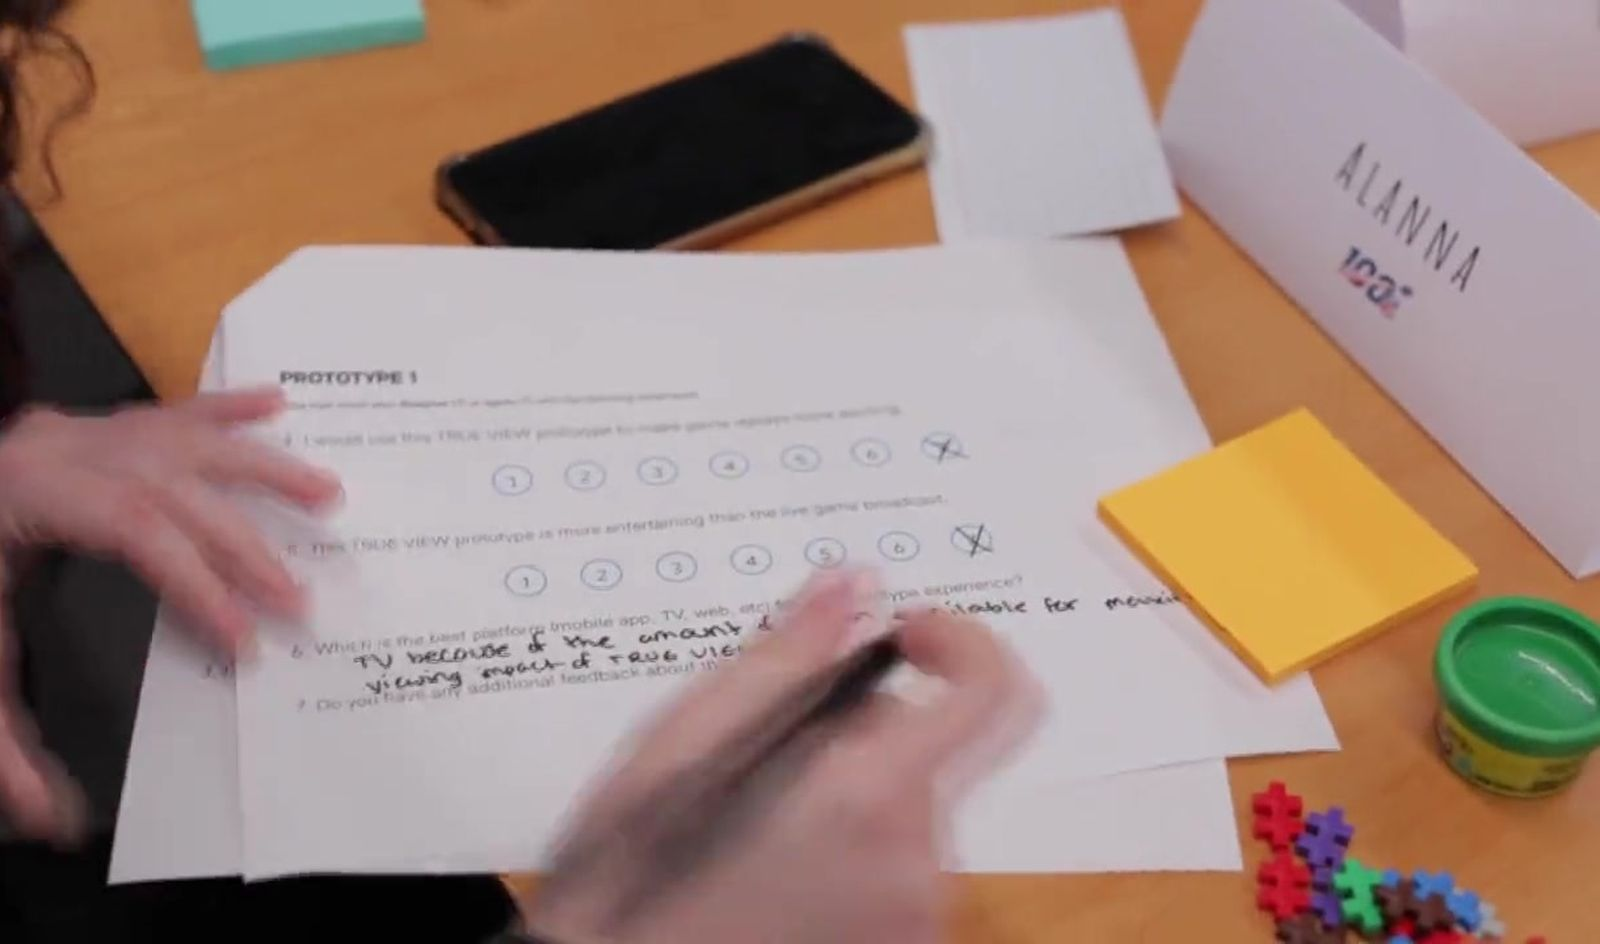
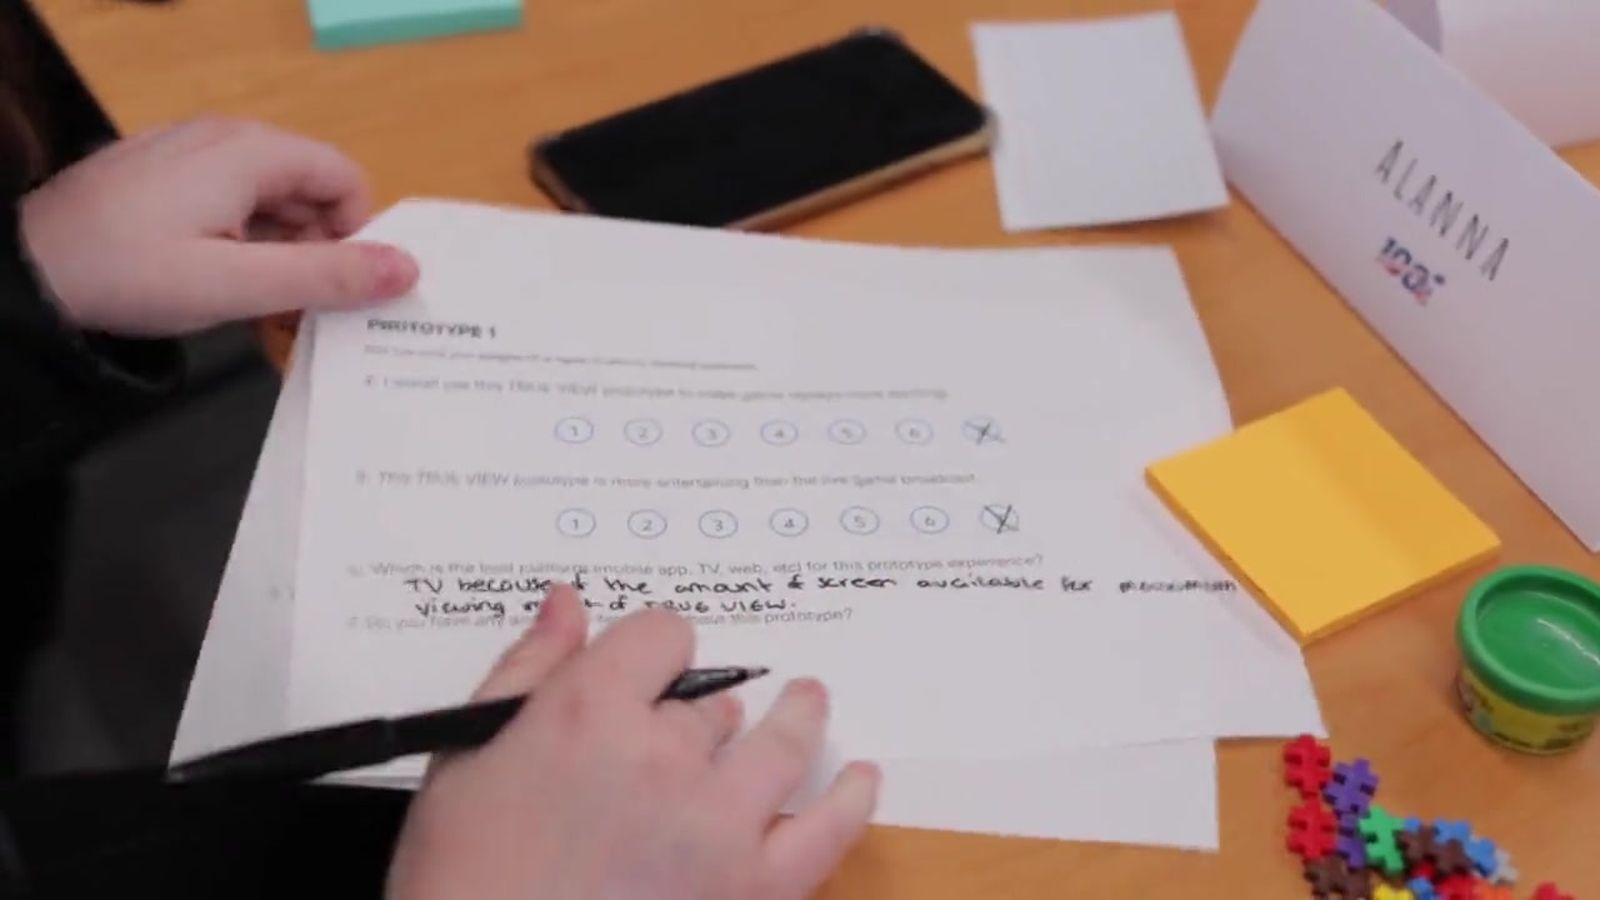
Expand the hero slideshow to 13 user-picked reel moments and drop the persona sketch slide
Adds six new slides (TrueView watchers, synthesis whiteboard, TANAKA sketching,
Sam reviewing with a colleague, storyboard presentation, storyboard table),
upgrades the JAYDEN writing and ALANNA survey slides to full-frame versions,
and shortens per-slide time to 6.8s so the longer rotation keeps moving.

diff --git a/index.html b/index.html
@@ -54,13 +54,18 @@
       <div class="hero-media" aria-hidden="true">
         <div class="hero-slides" data-hero-slides>
           <img class="hero-slide hero-slide--face is-active" src="media/hero/slide-sam-tablet.jpg" alt="" fetchpriority="high" decoding="async" />
+          <img class="hero-slide" src="media/hero/slide-trueview.jpg" alt="" loading="lazy" decoding="async" />
           <img class="hero-slide" src="media/hero/slide-sam-writing.jpg" alt="" loading="lazy" decoding="async" />
+          <img class="hero-slide" src="media/hero/slide-whiteboard.jpg" alt="" loading="lazy" decoding="async" />
           <img class="hero-slide hero-slide--face" src="media/hero/slide-sam-folder.jpg" alt="" loading="lazy" decoding="async" />
-          <img class="hero-slide" src="media/hero/slide-persona.jpg" alt="" loading="lazy" decoding="async" />
-          <img class="hero-slide hero-slide--face" src="media/hero/slide-sam-couch.jpg" alt="" loading="lazy" decoding="async" />
-          <img class="hero-slide" src="media/hero/slide-sam-pen.jpg" alt="" loading="lazy" decoding="async" />
-          <img class="hero-slide" src="media/hero/slide-survey-lance.jpg" alt="" loading="lazy" decoding="async" />
+          <img class="hero-slide" src="media/hero/slide-sketching.jpg" alt="" loading="lazy" decoding="async" />
+          <img class="hero-slide" src="media/hero/slide-sam-review.jpg" alt="" loading="lazy" decoding="async" />
           <img class="hero-slide" src="media/hero/slide-survey-alanna.jpg" alt="" loading="lazy" decoding="async" />
+          <img class="hero-slide hero-slide--face" src="media/hero/slide-sam-couch.jpg" alt="" loading="lazy" decoding="async" />
+          <img class="hero-slide" src="media/hero/slide-present.jpg" alt="" loading="lazy" decoding="async" />
+          <img class="hero-slide" src="media/hero/slide-sam-pen.jpg" alt="" loading="lazy" decoding="async" />
+          <img class="hero-slide" src="media/hero/slide-storyboards.jpg" alt="" loading="lazy" decoding="async" />
+          <img class="hero-slide" src="media/hero/slide-survey-lance.jpg" alt="" loading="lazy" decoding="async" />
         </div>
       </div>
       <div class="hero-scrim" aria-hidden="true"></div>

diff --git a/js/main.js b/js/main.js
@@ -248,7 +248,7 @@ if (heroSlides.length > 1) {
   const saveData = navigator.connection && navigator.connection.saveData;
 
   if (!prefersReducedMotion && !saveData) {
-    const SLIDE_INTERVAL_MS = 7500;
+    const SLIDE_INTERVAL_MS = 6800;
     const CROSSFADE_MS = 1900; // matches the .hero-slide opacity transition
     let current = 0;
     let timer = null;

diff --git a/generate.py b/generate.py
@@ -1197,13 +1197,18 @@ def write_home():
       <div class="hero-media" aria-hidden="true">
         <div class="hero-slides" data-hero-slides>
           <img class="hero-slide hero-slide--face is-active" src="media/hero/slide-sam-tablet.jpg" alt="" fetchpriority="high" decoding="async" />
+          <img class="hero-slide" src="media/hero/slide-trueview.jpg" alt="" loading="lazy" decoding="async" />
           <img class="hero-slide" src="media/hero/slide-sam-writing.jpg" alt="" loading="lazy" decoding="async" />
+          <img class="hero-slide" src="media/hero/slide-whiteboard.jpg" alt="" loading="lazy" decoding="async" />
           <img class="hero-slide hero-slide--face" src="media/hero/slide-sam-folder.jpg" alt="" loading="lazy" decoding="async" />
-          <img class="hero-slide" src="media/hero/slide-persona.jpg" alt="" loading="lazy" decoding="async" />
-          <img class="hero-slide hero-slide--face" src="media/hero/slide-sam-couch.jpg" alt="" loading="lazy" decoding="async" />
-          <img class="hero-slide" src="media/hero/slide-sam-pen.jpg" alt="" loading="lazy" decoding="async" />
-          <img class="hero-slide" src="media/hero/slide-survey-lance.jpg" alt="" loading="lazy" decoding="async" />
+          <img class="hero-slide" src="media/hero/slide-sketching.jpg" alt="" loading="lazy" decoding="async" />
+          <img class="hero-slide" src="media/hero/slide-sam-review.jpg" alt="" loading="lazy" decoding="async" />
           <img class="hero-slide" src="media/hero/slide-survey-alanna.jpg" alt="" loading="lazy" decoding="async" />
+          <img class="hero-slide hero-slide--face" src="media/hero/slide-sam-couch.jpg" alt="" loading="lazy" decoding="async" />
+          <img class="hero-slide" src="media/hero/slide-present.jpg" alt="" loading="lazy" decoding="async" />
+          <img class="hero-slide" src="media/hero/slide-sam-pen.jpg" alt="" loading="lazy" decoding="async" />
+          <img class="hero-slide" src="media/hero/slide-storyboards.jpg" alt="" loading="lazy" decoding="async" />
+          <img class="hero-slide" src="media/hero/slide-survey-lance.jpg" alt="" loading="lazy" decoding="async" />
         </div>
       </div>
       <div class="hero-scrim" aria-hidden="true"></div>
